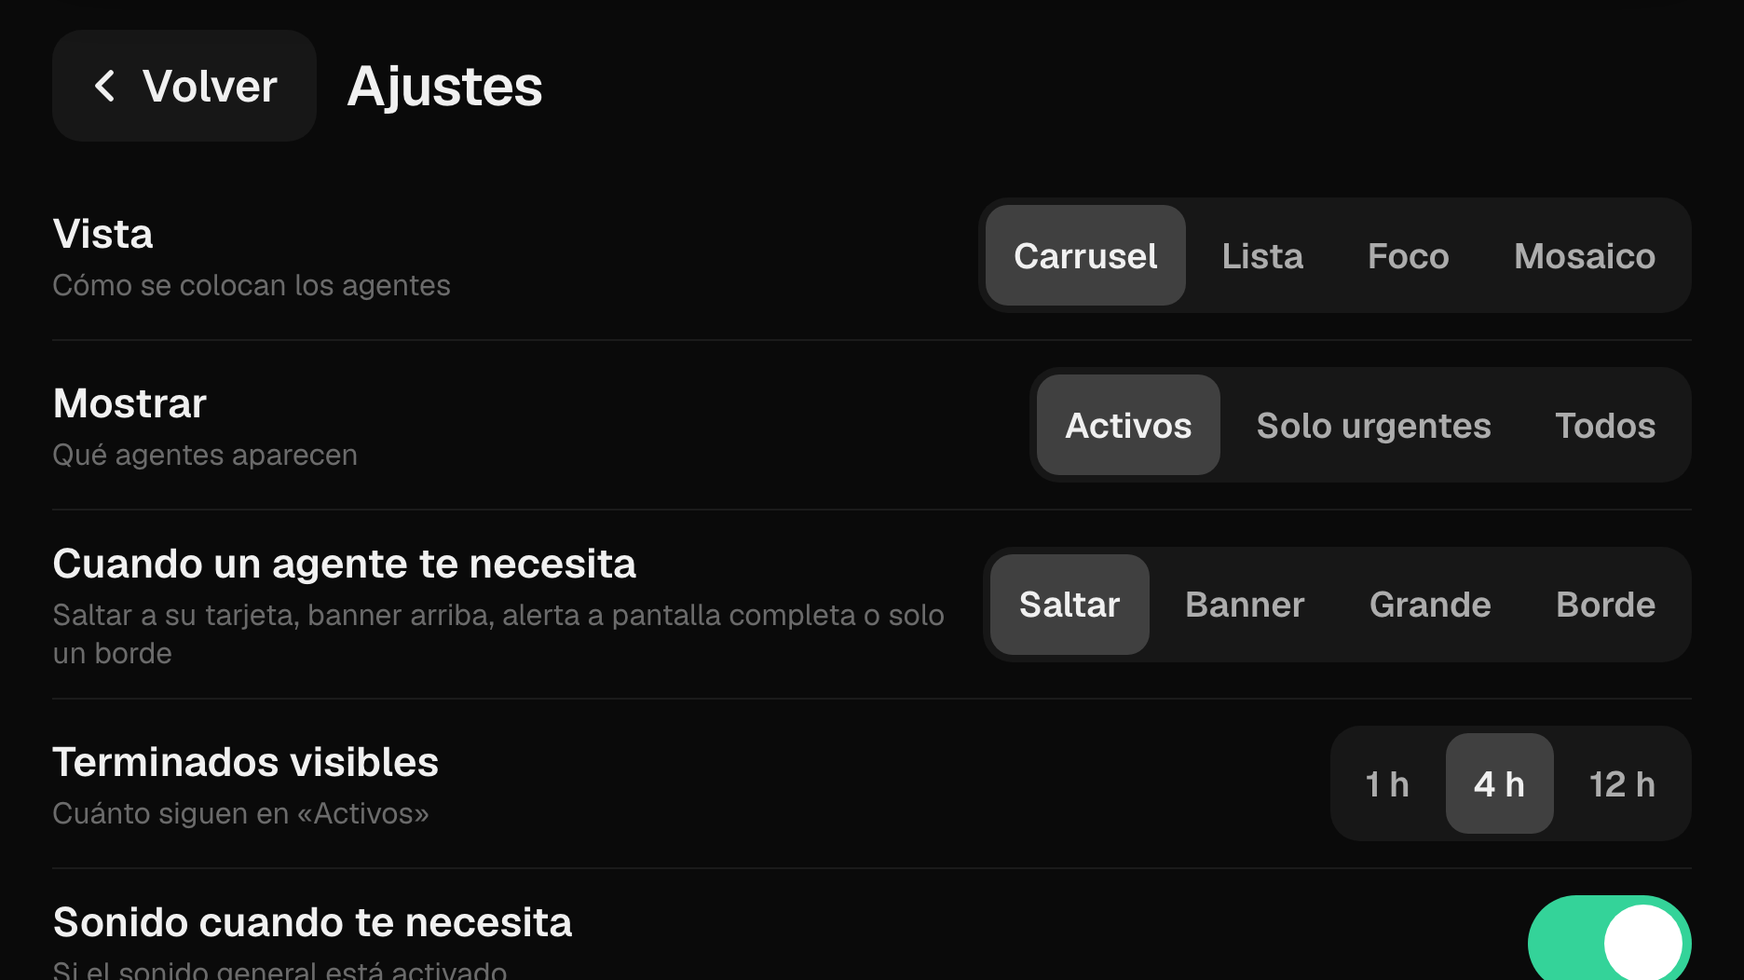
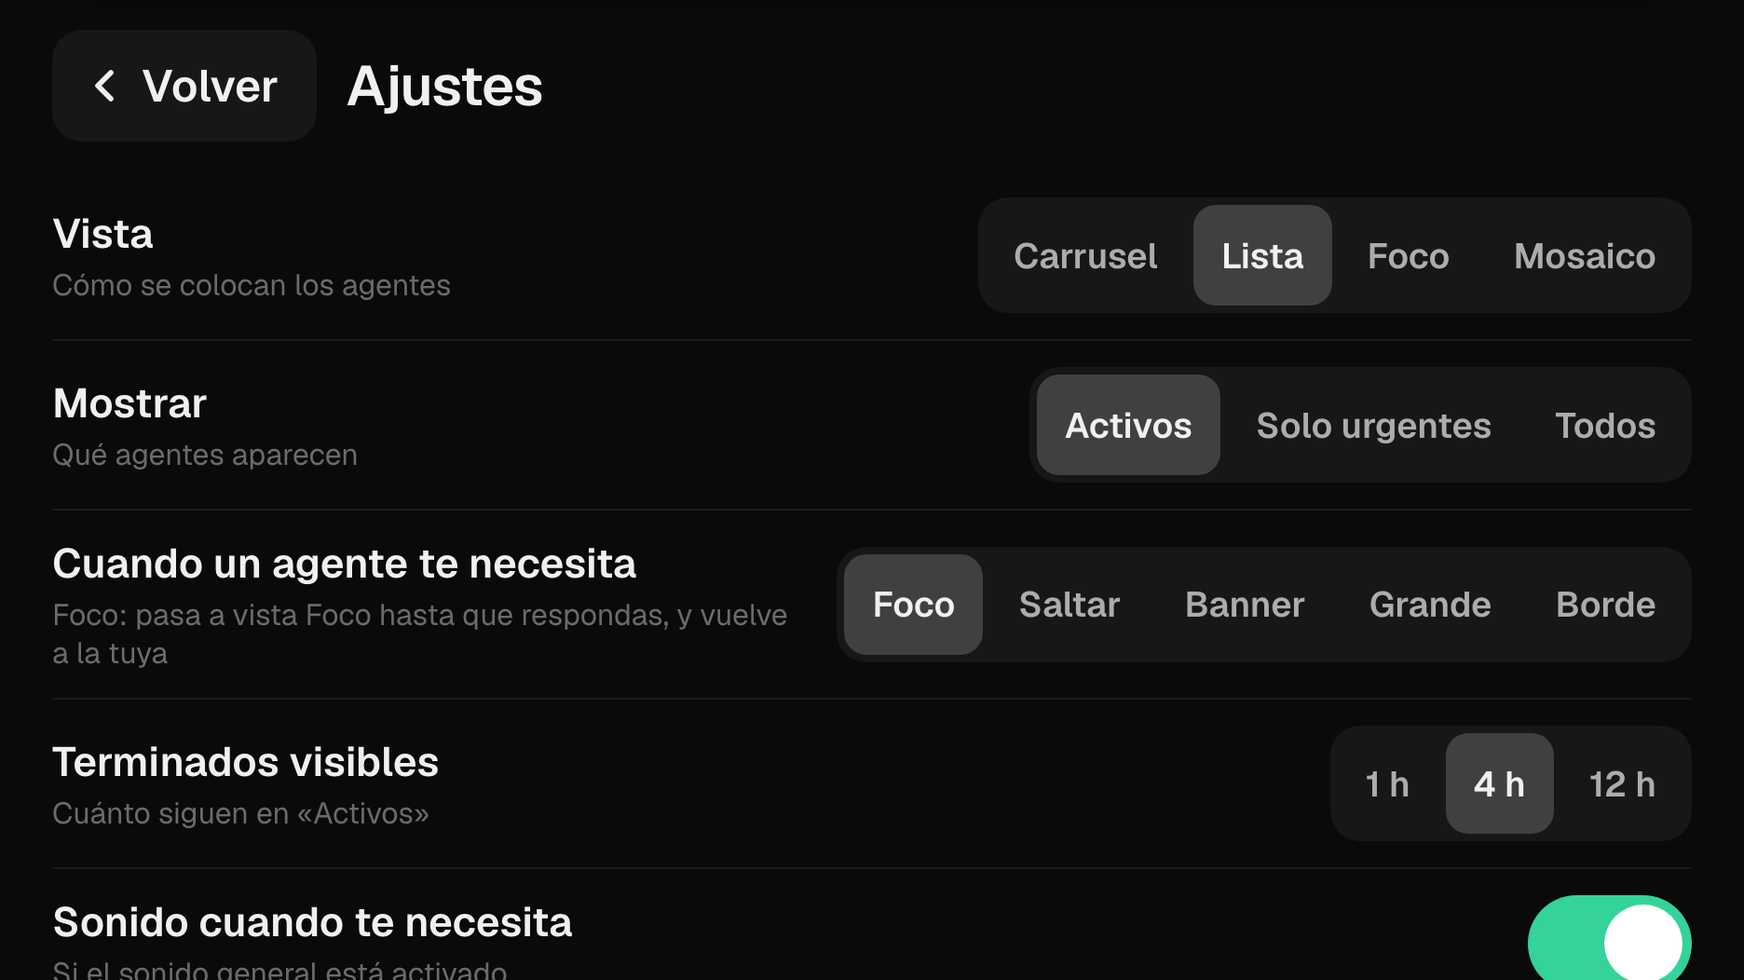
Add auto-Focus alerts, approval queue, escalation, ambient mode and pinned terminal (#3)
- New default alert "Foco": switch to the Focus layout with an amber border
  while an agent waits, then return to the user's view once answered.
- Focus side strip becomes a "Cola" with Sí/No per agent when 2+ are waiting.
- Escalation: repeat the alert after 2 min, full-screen alert after 5 min.
  Green flash when an agent finishes.
- Ambient mode after 10 min idle: dim clock + thin bars for working agents;
  any alert or touch wakes it.
- "Fijar" pins an agent's live terminal as the home screen ("Soltar" unpins).
- Lista is now the default layout. README and screenshots updated.

Changed region(s): [[0.031, 0.5475, 0.6816, 0.6996], [0.5577, 0.1825, 0.7746, 0.3346]]

diff --git a/web/index.html b/web/index.html
@@ -157,6 +157,30 @@ button{font:inherit;color:inherit;border:0;background:none;cursor:pointer}
 #alert .atitle{font-size:46px;line-height:1.1;font-weight:600;letter-spacing:-.02em;margin-top:18px;display:-webkit-box;-webkit-line-clamp:2;-webkit-box-orient:vertical;overflow:hidden}
 #alert .aask{font-size:26px;line-height:1.3;color:#fde68a;margin-top:14px;display:-webkit-box;-webkit-line-clamp:3;-webkit-box-orient:vertical;overflow:hidden}
 #alert .arow{display:flex;gap:12px;margin-top:auto}
+#app.flash::after{content:"";position:absolute;inset:0;border:6px solid var(--done);border-radius:14px;pointer-events:none;z-index:7;animation:fade 2.5s ease-out forwards}
+@keyframes fade{0%{opacity:1}100%{opacity:0}}
+/* focus side strip as approval queue */
+.qhead{flex:none;font-size:17px;font-weight:600;color:var(--waiting);text-transform:uppercase;letter-spacing:.06em;padding:2px 4px 0}
+.mini.q{flex-direction:column;align-items:stretch;gap:8px;padding:12px 12px 12px 16px}
+.mini.q .rt{display:flex;align-items:center;gap:10px}
+.mini.q .qb{display:flex;gap:8px} .mini.q .sbtn{flex:1;height:54px;min-width:0}
+/* pinned terminal */
+.pin{display:flex;flex-direction:column;gap:10px;min-height:0;height:100%}
+#phead{flex:none;display:flex;align-items:center;gap:12px}
+#phead .rt{flex:1;min-width:0;font-size:24px}
+.attnpill{height:56px;padding:0 18px;border-radius:14px;background:var(--waiting);color:#1c1300;font-size:20px;font-weight:700;flex:none}
+#pterm{flex:1;min-height:0;overflow-y:auto;background:#000;border:1px solid var(--border);border-radius:16px;padding:12px 16px;
+  font:16px/1.3 "SF Mono",ui-monospace,Menlo,monospace;white-space:pre-wrap;overflow-wrap:anywhere;color:#d4d4d4}
+/* ambient */
+#ambient{position:absolute;inset:0;z-index:6;background:#000;display:none;flex-direction:column;justify-content:center;padding:0 80px;cursor:pointer}
+#ambient.on{display:flex}
+#ambient .aclock{font-size:150px;font-weight:600;letter-spacing:-.04em;color:#3d3d3d;text-align:center;line-height:1;font-variant-numeric:tabular-nums}
+#ambient .bars{margin-top:36px;display:flex;flex-direction:column;gap:16px}
+.bar .bl{display:flex;justify-content:space-between;font-size:18px;color:#5a5a5a;margin-bottom:7px}
+.bar .bt{height:4px;border-radius:2px;background:#1c1c1c;overflow:hidden;position:relative}
+.bar .bt i{position:absolute;top:0;bottom:0;width:30%;border-radius:2px;background:#2f5f99;animation:slide 2.4s ease-in-out infinite}
+@keyframes slide{0%{left:-30%}100%{left:100%}}
+#ambient .amsg{text-align:center;font-size:20px;color:#3d3d3d;margin-top:24px}
 #app.glow::after{content:"";position:absolute;inset:0;border:6px solid var(--waiting);border-radius:14px;pointer-events:none;z-index:7;animation:pulse 1s ease-in-out infinite}
 
 #toast{position:absolute;left:50%;bottom:22px;transform:translate(-50%,120px);background:var(--primary);color:var(--primary-foreground);
@@ -204,6 +228,7 @@ button{font:inherit;color:inherit;border:0;background:none;cursor:pointer}
     <div id="sbody" class="scroller"></div>
   </section>
 
+  <div id="ambient" data-act="wake"></div>
   <div id="banner"></div>
   <div id="alert"></div>
   <div class="offline" id="offline"><div><b>Orca no responde</b><span>Abre Orca en el Mac y esto se conecta solo.</span></div></div>
@@ -239,16 +264,20 @@ function call(op, extra = {}) {
 const orca = (...args) => call("orca", { args });
 
 /* ── preferences (gear menu) ── */
-const DEF = { layout: "carousel", show: "active", alert: "jump", doneFor: 4, sndWait: true, sndDone: true, restoreCursor: true, autoHome: true };
+const DEF = { layout: "list", show: "active", alert: "focus", doneFor: 4, sndWait: true, sndDone: true, repeat: true, escalate: true,
+  ambient: true, restoreCursor: true, autoHome: true };
 const P = Object.assign({}, DEF, store.get("prefs", {}));
 if (!native) for (const [k, v] of new URLSearchParams(location.search)) if (k in DEF) P[k] = typeof DEF[k] === "number" ? +v : typeof DEF[k] === "boolean" ? v === "1" : v;
 const SETTINGS = [
   ["layout", "Vista", "Cómo se colocan los agentes", [["carousel", "Carrusel"], ["list", "Lista"], ["focus", "Foco"], ["grid", "Mosaico"]]],
   ["show", "Mostrar", "Qué agentes aparecen", [["active", "Activos"], ["attention", "Solo urgentes"], ["all", "Todos"]]],
-  ["alert", "Cuando un agente te necesita", "Saltar a su tarjeta, banner arriba, alerta a pantalla completa o solo un borde", [["jump", "Saltar"], ["banner", "Banner"], ["full", "Grande"], ["glow", "Borde"]]],
+  ["alert", "Cuando un agente te necesita", "Foco: pasa a vista Foco hasta que respondas, y vuelve a la tuya", [["focus", "Foco"], ["jump", "Saltar"], ["banner", "Banner"], ["full", "Grande"], ["glow", "Borde"]]],
   ["doneFor", "Terminados visibles", "Cuánto siguen en «Activos»", [[1, "1 h"], [4, "4 h"], [12, "12 h"]]],
   ["sndWait", "Sonido cuando te necesita", "Si el sonido general está activado"],
   ["sndDone", "Sonido cuando termina", "Si el sonido general está activado"],
+  ["repeat", "Repetir el aviso", "Otra vez a los 2 min si sigue esperando"],
+  ["escalate", "Pantalla completa si no respondes", "Tras 5 min esperando"],
+  ["ambient", "Modo ambiente", "Tras 10 min sin avisos ni toques: reloj y barras; despierta con cualquier aviso"],
   ["restoreCursor", "Devolver el puntero al Mac", "Al tocar el iPhone, el ratón vuelve a donde estaba y no se ve en el iPhone"],
   ["autoHome", "Volver al inicio solo", "Tras 1 min sin tocar la pantalla"],
 ];
@@ -262,7 +291,8 @@ call("prefs", { restoreCursor: P.restoreCursor });
 
 /* ── state ── */
 const S = { agents: [], byKey: new Map(), prev: store.get("prev", {}), sel: null, view: "summary",
-  sound: store.get("sound", true), lastOk: Date.now(), screenText: "", lastTouch: Date.now(), alertKey: null, dirty: false };
+  sound: store.get("sound", true), lastOk: Date.now(), screenText: "", lastTouch: Date.now(), alertKey: null, alertStyle: null, dirty: false,
+  autoFocus: false, pinned: store.get("pin", null), lastEvent: Date.now(), nagged: new Set(), escalated: new Set() };
 let drag = null, moved = false, holdFocus = false;
 
 function kind(state) {
@@ -342,8 +372,9 @@ function changes(list) {
     next[a.key] = a.k;
     const was = S.prev[a.key];
     if (first || was === a.k) continue;
+    S.lastEvent = Date.now();
     if (a.k === "waiting") { if (P.sndWait) chime = "Funk"; alertKey = alertKey || a.key; }
-    else if (a.k === "done" && was === "working" && P.sndDone) { chime = chime || "Glass"; }
+    else if (a.k === "done" && was === "working") { if (P.sndDone) chime = chime || "Glass"; flash(); }
   }
   S.prev = next; store.set("prev", next);
   if (chime && S.sound) call("sound", { name: chime });
@@ -351,25 +382,39 @@ function changes(list) {
 }
 
 /* ── "an agent needs you" styles ── */
-function raiseAlert(key) {
+function flash() { const A = $("#app"); A.classList.remove("flash"); void A.offsetWidth; A.classList.add("flash"); setTimeout(() => A.classList.remove("flash"), 2600); }
+function glow() { $("#app").classList.add("glow"); clearTimeout(glow.h); glow.h = setTimeout(() => $("#app").classList.remove("glow"), 12e3); }
+function raiseAlert(key, style = P.alert) {
   const a = S.byKey.get(key); if (!a) return;
-  if (P.alert === "jump") {
+  wake();
+  S.alertStyle = style;
+  if (style === "focus") {
+    S.autoFocus = true; glow(); showHome(); render();
+  } else if (style === "jump") {
     showHome(); requestAnimationFrame(() => $("#rail").scrollTo({ left: 0, top: 0, behavior: "smooth" }));
-  } else if (P.alert === "banner") {
+  } else if (style === "banner") {
     S.alertKey = key; paintAlerts();
     clearTimeout(raiseAlert.h); raiseAlert.h = setTimeout(closeAlerts, 10e3);
-  } else if (P.alert === "full") {
+  } else if (style === "full") {
     S.alertKey = key; paintAlerts();
-  } else if (P.alert === "glow") {
-    $("#app").classList.add("glow"); clearTimeout(raiseAlert.g); raiseAlert.g = setTimeout(() => $("#app").classList.remove("glow"), 12e3);
-  }
+  } else if (style === "glow") glow();
 }
+
+/* Repeat after 2 min, full screen after 5 min, for agents still waiting. */
+setInterval(() => {
+  for (const a of S.agents) {
+    if (a.k !== "waiting" || !a.at) continue;
+    const id = a.key + "@" + a.at, age = Date.now() - a.at;
+    if (P.escalate && age > 300e3 && !S.escalated.has(id)) { S.escalated.add(id); if (P.sndWait && S.sound) call("sound", { name: "Funk" }); raiseAlert(a.key, "full"); break; }
+    if (P.repeat && age > 120e3 && !S.nagged.has(id)) { S.nagged.add(id); if (P.sndWait && S.sound) call("sound", { name: "Funk" }); glow(); wake(); break; }
+  }
+}, 5e3);
 function closeAlerts() { S.alertKey = null; $("#banner").classList.remove("on"); $("#alert").classList.remove("on"); }
 function paintAlerts() {
   const a = S.alertKey && S.byKey.get(S.alertKey);
   if (!a || a.k !== "waiting") { if (S.alertKey) closeAlerts(); $("#app").classList.toggle("glow", $("#app").classList.contains("glow") && S.agents.some(x => x.k === "waiting")); return; }
   const yn = a.handle ? `<button class="sbtn yes" data-act="yes">Sí</button><button class="sbtn" data-act="no">No</button>` : "";
-  if (P.alert === "banner") {
+  if (S.alertStyle === "banner") {
     const B = $("#banner"); B.dataset.key = a.key;
     B.innerHTML = `<span class="dot" style="--c:var(--waiting)"></span><div class="rtx"><div class="rt">${esc(titleOf(a))}</div><div class="rn">${esc(askText(a))}</div></div>
       ${yn}<button class="sbtn" data-act="view">Ver</button>`;
@@ -413,7 +458,10 @@ function render() {
   $("#gear").innerHTML = ICON.gear;
 
   const rail = $("#rail"), left = rail.scrollLeft, top = rail.scrollTop, sideTop = rail.querySelector(".side")?.scrollTop || 0;
-  const L = P.layout;
+  if (S.autoFocus && !c.waiting) S.autoFocus = false;            // answered → back to the user's view
+  if (S.pinned && !S.byKey.has(S.pinned) && S.agents.length) { S.pinned = null; store.set("pin", null); }
+  const L = S.autoFocus ? "focus" : S.pinned ? "pinned" : P.layout;
+  if (L === "pinned") { renderPinned(rail, c.waiting); dots(); paintAlerts(); if (S.sel) renderDetail(); return; }
   rail.className = "lay-" + L + (L === "carousel" ? " scroller hscroll" : L === "focus" ? "" : " scroller");
   if (!vis.length) {
     rail.className = "";
@@ -421,7 +469,12 @@ function render() {
       <div class="msg">${P.show === "attention" ? "Nada urgente · ningún agente te necesita" : "Todo tranquilo · ningún agente trabajando"}</div></div></div>`;
   } else if (L === "list") rail.innerHTML = vis.map(rowHTML).join("");
   else if (L === "grid") rail.innerHTML = vis.map(tileHTML).join("");
-  else if (L === "focus") rail.innerHTML = cardHTML(vis[0]) + `<div class="side scroller">${vis.slice(1).map(miniHTML).join("") || '<div class="none">Nada más en marcha</div>'}</div>`;
+  else if (L === "focus") {
+    const rest = vis.slice(1), q = rest.filter(a => a.k === "waiting");
+    const side = (q.length ? `<div class="qhead">Cola · ${q.length} más ${q.length > 1 ? "esperan" : "espera"}</div>` + q.map(queueHTML).join("") : "")
+      + rest.filter(a => a.k !== "waiting").map(miniHTML).join("");
+    rail.innerHTML = cardHTML(vis[0]) + `<div class="side scroller">${side || '<div class="none">Nada más en marcha</div>'}</div>`;
+  }
   else rail.innerHTML = vis.map(cardHTML).join("") + `<div style="flex:none;width:10px"></div>`;
   rail.scrollLeft = left; rail.scrollTop = top;
   const side = rail.querySelector(".side"); if (side) side.scrollTop = sideTop;
@@ -443,6 +496,22 @@ function tileHTML(a) {
     <div class="tt" >${esc(titleOf(a))}</div>
     ${yn ? "" : `<div class="tn">${esc(nowText(a))}</div>`}
     ${yn ? `<div class="ans">${yn}</div>` : `<div class="tw">${esc(a.w.repo)} · ${esc(a.w.displayName || "")}</div>`}</div>`;
+}
+function queueHTML(a) {
+  return `<div class="mini q waiting" data-key="${esc(a.key)}"><div class="rt"><span class="dot"></span><span style="overflow:hidden;text-overflow:ellipsis">${esc(titleOf(a))}</span></div>
+    ${a.handle ? `<div class="qb">${yesNo(a)}</div>` : `<div class="rn">${esc(askText(a))}</div>`}</div>`;
+}
+function renderPinned(rail, waiting) {
+  const a = S.byKey.get(S.pinned); if (!a) return;
+  rail.className = "";
+  if (!rail.querySelector(`.pin[data-key="${CSS.escape(a.key)}"]`)) {
+    rail.innerHTML = `<div class="pin" data-key="${esc(a.key)}"><div id="phead"></div><div id="pterm" class="scroller">Cargando…</div></div>`;
+    S.pinText = ""; refreshTerm();
+  }
+  const other = S.agents.find(x => x.k === "waiting" && x.key !== a.key);
+  $("#phead").innerHTML = `<div class="pill ${a.k}"><span class="dot"></span></div><div class="rt">${esc(titleOf(a))}</div>
+    ${other ? `<button class="attnpill" data-act="view" data-key="${esc(other.key)}">${waiting} te ${waiting > 1 ? "necesitan" : "necesita"}</button>` : ""}
+    ${yesNo(a)}<button class="sbtn" data-act="unpin">Soltar</button>`;
 }
 function miniHTML(a) {
   return `<div class="mini ${a.k}" data-key="${esc(a.key)}"><span class="dot"></span>
@@ -514,31 +583,36 @@ function renderDetail() {
   if (a.k === "waiting" && a.handle) acts.push(`<button class="btn yes" data-act="yes">${ICON.check} Sí</button>`, `<button class="btn no" data-act="no">No</button>`);
   acts.push(`<button class="btn primary" data-act="open">${ICON.open} Abrir en Orca</button>`);
   if (a.handle) acts.push(view === "term"
-    ? `<button class="btn" data-act="summary">${ICON.text} Resumen</button>`
+    ? `<button class="btn" data-act="summary">${ICON.text} Resumen</button><button class="btn" data-act="pin">Fijar</button>`
     : `<button class="btn" data-act="term">${ICON.term} Terminal</button>`);
   if (a.fresh && a.k !== "waiting") acts.push(`<button class="btn" data-act="seen">${ICON.check} Visto</button>`);
   $("#dactions").innerHTML = acts.join("");
 }
 
 let termBusy = false;
+const pinnedOnScreen = () => !S.sel && S.pinned && !S.autoFocus && !$("#home").classList.contains("hidden") && $("#pterm");
 async function refreshTerm() {
-  const a = S.byKey.get(S.sel);
-  if (!a?.handle || termBusy || S.view !== "term") return;
+  const pin = !(S.sel && S.view === "term") && pinnedOnScreen();
+  const a = S.byKey.get(pin ? S.pinned : S.sel);
+  if (!a?.handle || termBusy || (!pin && S.view !== "term")) return;
   termBusy = true;
   const r = await orca("terminal", "read", "--terminal", a.handle, "--screen");
   termBusy = false;
   const tail = r?.result?.terminal?.tail;
-  if (!Array.isArray(tail)) { S.screenText = "No se pudo leer el terminal."; paintTerm(); return; }
-  let e = tail.length; while (e && !tail[e - 1].trim()) e--;
-  S.screenText = tail.slice(Math.max(0, e - 40), e).map(l => l.replace(/\s+$/, "")).join("\n");
-  paintTerm();
+  let text = "No se pudo leer el terminal.";
+  if (Array.isArray(tail)) {
+    let e = tail.length; while (e && !tail[e - 1].trim()) e--;
+    text = tail.slice(Math.max(0, e - 40), e).map(l => l.replace(/\s+$/, "")).join("\n");
+  }
+  if (pin) { const T = $("#pterm"); if (T && T.textContent !== text) { T.textContent = text; T.scrollTop = T.scrollHeight; } return; }
+  S.screenText = text; paintTerm();
 }
 let painted = "";
 function paintTerm() {
   const B = $("#dbody"); if (!B.classList.contains("term") || S.screenText === painted) return;
   B.textContent = painted = S.screenText; B.scrollTop = B.scrollHeight;
 }
-setInterval(() => { if (S.sel && S.view === "term") refreshTerm(); }, 1500);
+setInterval(() => { if ((S.sel && S.view === "term") || pinnedOnScreen()) refreshTerm(); }, 1500);
 
 /* ── actions ── */
 function toast(m) { const t = $("#toast"); t.textContent = m; t.classList.add("on"); clearTimeout(toast.h); toast.h = setTimeout(() => t.classList.remove("on"), 1600); }
@@ -549,9 +623,12 @@ async function act(name, a) {
   if (name === "back") return showHome();
   if (name === "settings") return showSettings();
   if (name === "dismiss") return closeAlerts();
+  if (name === "wake") return wake();
+  if (name === "unpin") { S.pinned = null; store.set("pin", null); toast("Terminal suelto"); return render(); }
   if (name === "sound") { S.sound = !S.sound; store.set("sound", S.sound); toast(S.sound ? "Sonido activado" : "Sonido desactivado"); return render(); }
   if (!a) return;
   if (name === "view") return showDetail(a.key);
+  if (name === "pin") { S.pinned = a.key; store.set("pin", a.key); toast("Fijado en el inicio"); showHome(); return render(); }
   if (name === "open") {
     call("focusOrca");   // first, while the deck is still the active app (macOS only lets the active app hand over focus)
     const r = await orca("worktree", "activate", "--worktree", wtSel(a));
@@ -598,6 +675,7 @@ document.addEventListener("mouseup", () => {
   setTimeout(() => { if (!holdFocus) call("yield"); holdFocus = false; }, 0);
 });
 document.addEventListener("click", e => {
+  if ($("#ambient").classList.contains("on")) { e.stopPropagation(); e.preventDefault(); wake(); return; }
   if (moved) { e.stopPropagation(); e.preventDefault(); moved = false; return; }
   const btn = e.target.closest("[data-act]");
   if (btn?.dataset.act === "open") holdFocus = true;
@@ -606,8 +684,23 @@ document.addEventListener("click", e => {
   const holder = e.target.closest("[data-key]");
   const key = holder?.dataset.key || S.sel;
   if (btn) { act(btn.dataset.act, S.byKey.get(key)); return; }
-  if (holder) showDetail(key);
+  if (holder && !holder.classList.contains("pin")) showDetail(key);   // taps on the pinned terminal itself do nothing
 }, true);
+
+/* Ambient: after 10 min with nothing waiting, no state changes and no touches, dim to a clock + thin bars. */
+function wake() { S.lastTouch = Date.now(); $("#ambient").classList.remove("on"); }
+function paintAmbient() {
+  const working = S.agents.filter(a => a.k === "working").slice(0, 4);
+  $("#ambient").innerHTML = `<div class="aclock">${clockText()}</div>` + (working.length
+    ? `<div class="bars">${working.map(a => `<div class="bar"><div class="bl"><span>${esc(titleOf(a))}</span><span>${ago(a.at)}</span></div><div class="bt"><i></i></div></div>`).join("")}</div>`
+    : `<div class="amsg">Todo tranquilo</div>`);
+}
+setInterval(() => {
+  const amb = $("#ambient"), quiet = !S.agents.some(a => a.k === "waiting");
+  const idle = Date.now() - Math.max(S.lastTouch, S.lastEvent) > 600e3;
+  if (P.ambient && quiet && idle && !S.alertKey) { paintAmbient(); amb.classList.add("on"); }
+  else if (amb.classList.contains("on")) amb.classList.remove("on");
+}, 5e3);
 
 /* After a minute without touches, go back to the overview. */
 setInterval(() => { if (P.autoHome && (S.sel || !$("#settings").classList.contains("hidden")) && Date.now() - S.lastTouch > 60e3) showHome(); }, 5e3);
@@ -633,7 +726,15 @@ window.mock = () => {
     { worktreeId: "r::c", repo: "landing", displayName: "black-friday", agents: [A(2, "done", { activity: { unread: true } }), A(3, "working", { toolName: "Bash", toolInput: "pnpm test:e2e" })] },
   ] } }, { result: { terminals: [{ tabId: "t0", leafId: "l", handle: "h0" }] } });
 };
-if (!native) { mock(); const v = new URLSearchParams(location.search).get("view");
+if (!native) { const qs = new URLSearchParams(location.search);
+  if (qs.get("waiting") === "2") { const m = mock; window.mock = () => { const u = deck.update; deck.update = (ps, t) => {
+    ps.result.worktrees[2].agents[1] = { ...ps.result.worktrees[2].agents[1], state: "waiting", toolName: "Edit", toolInput: "tests/onboarding.spec.ts" };
+    ps.result.worktrees.push({ worktreeId: "r::d", repo: "orca-deck", displayName: "ambient", agents: [{ paneKey: "t4:l", state: "waiting", conversationName: "Modo ambiente del deck", toolName: "Bash", toolInput: "./build.sh --install", stateStartedAt: Date.now() - 90e3 }] });
+    t.result.terminals.push({ tabId: "t3", leafId: "l", handle: "h3" }, { tabId: "t4", leafId: "l", handle: "h4" }); u(ps, t); }; m(); deck.update = u; }; }
+  mock(); const v = qs.get("view");
+  if (v === "autofocus") raiseAlert("r::a|t0:l", "focus");
+  if (v === "pinned") { S.pinned = "r::b|t1:l"; render(); $("#pterm").textContent = "⏺ Editando src/auth/google.ts\n  ⎿  Updated with 12 additions and 4 removals\n\n⏺ Bash(pnpm test auth)\n  ⎿  PASS  src/auth/google.test.ts (8 tests)\n     PASS  src/auth/session.test.ts (5 tests)\n\n✻ Pensando… (esc para interrumpir)"; }
+  if (v === "ambient") { paintAmbient(); $("#ambient").classList.add("on"); }
   if (v === "settings") showSettings(); if (v === "banner" || v === "full") { P.alert = v; S.alertKey = "r::a|t0:l"; paintAlerts(); } }
 </script>
 </body>

diff --git a/README.md b/README.md
@@ -15,10 +15,21 @@ via OpenDisplay. At a glance: who needs you, who is working, what just finished 
 |---|---|---|
 | ![Ajustes](docs/screenshots/settings.png) | ![Banner](docs/screenshots/alert-banner.png) | ![Grande](docs/screenshots/alert-full.png) |
 
+| Foco automático + cola | Terminal fijado | Modo ambiente |
+|---|---|---|
+| ![Foco automático](docs/screenshots/auto-focus-queue.png) | ![Terminal fijado](docs/screenshots/pinned-terminal.png) | ![Ambiente](docs/screenshots/ambient.png) |
+
 The gear menu (saved per device) sets:
-- **Vista**: Carrusel, Lista, Foco (most urgent agent big + side strip), Mosaico.
+- **Vista**: Lista (default), Carrusel, Foco (most urgent agent big + side strip), Mosaico.
 - **Mostrar**: active agents, only urgent ones, or all.
-- **Cuando un agente te necesita**: jump to its card, top banner, full-screen alert, or just an amber border.
+- **Cuando un agente te necesita**: *Foco* (default: switch to Foco with an amber border until you answer, then
+  back to your view; with 2+ waiting the side strip becomes an approval queue with Sí/No), jump to its card,
+  top banner, full-screen alert, or just an amber border.
+- **Escalation**: repeat the alert after 2 min, go full screen after 5 min unanswered. Green flash when an agent finishes.
+- **Modo ambiente**: after 10 min with nothing waiting and no touches, dims to a clock and thin activity bars;
+  any alert or touch wakes it.
+- **Fijar terminal**: in an agent's Terminal view, *Fijar* keeps its live terminal as the home screen
+  (an amber pill shows if another agent needs you; *Soltar* unpins).
 - Separate sounds for "needs you" and "finished", how long finished agents stay visible, auto-return home.
 - **Devolver el puntero al Mac**: OpenDisplay turns touches into real mouse events, which drags the Mac pointer
   onto the phone. Orca Deck hides it while the finger is down and warps it back where it was afterwards.
@@ -46,5 +57,6 @@ Touch on the phone needs OpenDisplay to have Accessibility permission on the Mac
 - `DECK_WEB_DIR=$PWD/web "build/Orca Deck.app/Contents/MacOS/OrcaDeck"` loads the HTML from disk.
 - `DECK_SNAPSHOT=/tmp/x.png DECK_SNAPSHOT_JS='…'` saves a PNG of the window after load.
 - Opening `web/index.html` in a browser shows mock data; query params preview settings,
-  e.g. `?layout=list`, `?view=settings`, `?view=banner`, `?view=full`.
+  e.g. `?layout=list`, `?view=settings`, `?view=banner`, `?view=full`, `?view=autofocus&waiting=2`,
+  `?view=pinned`, `?view=ambient`.
 - Touch detection is logged to `~/Library/Logs/OrcaDeck.log`.
